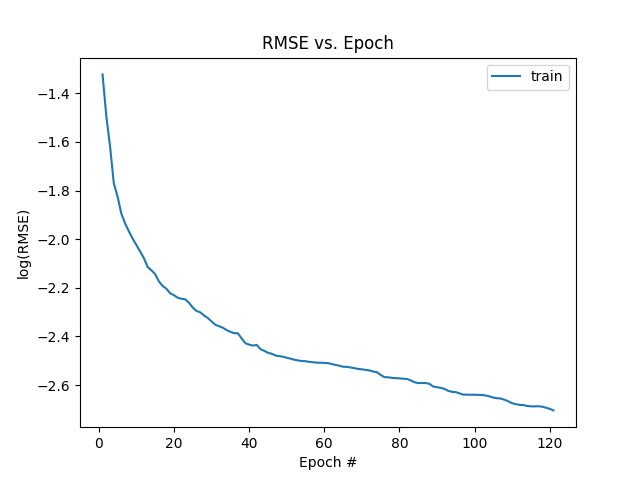
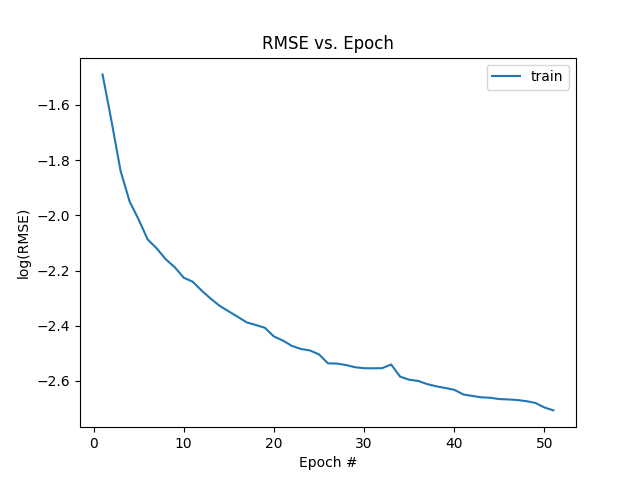
implemented variable sample length, corrected RMSE per atom calculation

diff --git a/amp_pytorch/data_preprocess.py b/amp_pytorch/data_preprocess.py
@@ -83,16 +83,18 @@ def factorize_data(training_data):
     unique_atoms = []
     fingerprint_dataset = []
     energy_dataset = []
+    num_of_atoms = []
     for image_sample in training_data:
         image_fingerprint = image_sample[0]
         fingerprint_dataset.append(image_fingerprint)
         image_potential_energy = image_sample[1]
         energy_dataset.append(image_potential_energy)
+        num_of_atoms.append(float(len(image_fingerprint)))
         for atom in image_fingerprint:
             element = atom[0]
             if element not in unique_atoms:
                 unique_atoms.append(element)
-    return unique_atoms, fingerprint_dataset, energy_dataset
+    return unique_atoms, fingerprint_dataset, energy_dataset, num_of_atoms
 
 
 def collate_amp(training_data):
@@ -101,7 +103,7 @@ def collate_amp(training_data):
     specific datasets to be fed into the element specific Neural Nets.
     """
 
-    unique_atoms, fingerprint_dataset, energy_dataset = factorize_data(
+    unique_atoms, fingerprint_dataset, energy_dataset, num_of_atoms = factorize_data(
         training_data)
     element_specific_fingerprints = {}
     model_input_data = []
@@ -119,4 +121,5 @@ def collate_amp(training_data):
             element_specific_fingerprints[element][0])
     model_input_data.append(element_specific_fingerprints)
     model_input_data.append(torch.tensor(energy_dataset))
+    model_input_data.append(torch.tensor(num_of_atoms))
     return model_input_data

diff --git a/amp_pytorch/nn_torch_bfgs.py b/amp_pytorch/nn_torch_bfgs.py
@@ -1,3 +1,4 @@
+import sys
 import numpy as np
 import torch
 import torch.nn as nn
@@ -196,6 +197,7 @@ def train_model(model, unique_atoms, dataset_size, criterion, optimizer, atoms_d
             batch_size = len(target)
             target = target.reshape(batch_size, 1)
             scaled_target = target_scaling(target, method='standardize')
+            num_of_atoms = data_sample[2].reshape(batch_size, 1)
             # Send inputs and labels to the corresponding device (cpu or gpu)
             for element in unique_atoms:
                 input_data[element][0] = input_data[element][0].to(device)
@@ -215,8 +217,10 @@ def train_model(model, unique_atoms, dataset_size, criterion, optimizer, atoms_d
                 scaled_preds = model(input_data)
                 raw_preds = pred_scaling(
                     scaled_preds, target, method='standardize')
-                loss = criterion(raw_preds, target)
-                MSE += loss.item()*batch_size/len(unique_atoms)**2
+                raw_preds_per_atom = torch.div(raw_preds, num_of_atoms)
+                target_per_atom = torch.div(target, num_of_atoms)
+                loss = criterion(raw_preds_per_atom, target_per_atom)
+                MSE += loss.item()*batch_size
 
         MSE = MSE/dataset_size
         RMSE = np.sqrt(MSE)

diff --git a/amp_pytorch/main_bfgs.py b/amp_pytorch/main_bfgs.py
@@ -1,3 +1,4 @@
+import sys
 import time
 import torch
 import torch.nn as nn
@@ -22,7 +23,7 @@ log("-" * 50)
 log("Filename: %s" % filename)
 
 training_data = AtomsDataset(filename, descriptor=Gaussian())
-unique_atoms, _, _ = factorize_data(training_data)
+unique_atoms, _, _, _ = factorize_data(training_data)
 n_unique_atoms = len(unique_atoms)
 
 batch_size = len(training_data)
@@ -57,7 +58,6 @@ else:
     atoms_dataloader = DataLoader(
         training_data, batch_size, collate_fn=collate_amp, shuffle=False
     )
-
 model = FullNN(unique_atoms, batch_size)
 # if torch.cuda.device_count()>1:
 # print('Utilizing',torch.cuda.device_count(),'GPUs!')
